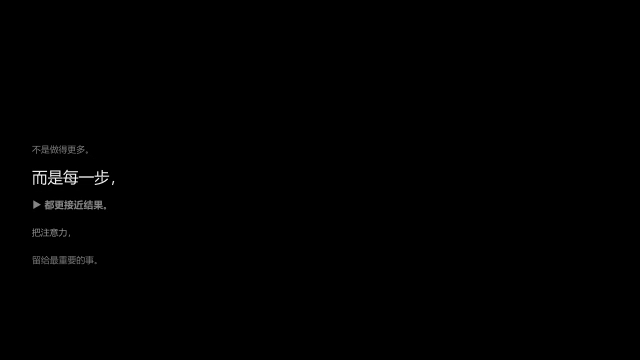
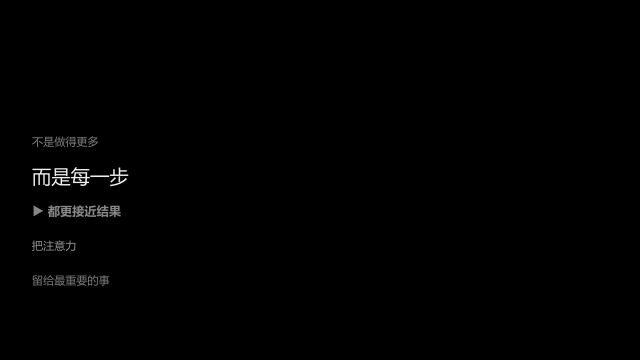
自动同步 2026/7/15 12:51:43

diff --git a/server/kinetic-text/effects.js b/server/kinetic-text/effects.js
@@ -46,7 +46,7 @@ const TEMPLATE_DEFS = [
     supportedTiming: ["sentence", "word"],
     requiresWordTiming: false,
     defaultParams: {
-      fontSize: 58,
+      fontSize: 72,
       x: 5,
       y: 50,
       maxLines: 1,

diff --git a/server/kinetic-text/kinetic-text-service.js b/server/kinetic-text/kinetic-text-service.js
@@ -670,7 +670,7 @@ function rollingFocusDisplayRows(segments = []) {
       ...segment,
       id: `${segment.id}-focus-${index + 1}`,
       sourceSegmentId: segment.id,
-      text: joinTimedWords(group, segment.text),
+      text: joinTimedWords(group, segment.text).replace(/[，。！？；：、,.!?;:]+$/u, ""),
       start: Math.max(segment.start, group[0].start),
       end: Math.min(segment.end, Math.max(group[0].start + 0.1, group[group.length - 1].end)),
       words: group,

diff --git a/subtitle-templates/rolling-focus-subtitle/defaultConfig.ts b/subtitle-templates/rolling-focus-subtitle/defaultConfig.ts
@@ -2,7 +2,7 @@ import type { SubtitleTemplateConfig } from "../types";
 
 const config: SubtitleTemplateConfig = {
   fontFamily: "Microsoft YaHei",
-  fontSize: 58,
+  fontSize: 72,
   primaryColor: "#FFFFFF",
   accentColor: "#FFFFFF",
   position: { x: 5, y: 50 },

diff --git a/ui/modules/kinetic-text.js b/ui/modules/kinetic-text.js
@@ -453,7 +453,7 @@ function rollingFocusPreviewRows(segments = []) {
       ...segment,
       id: `${segment.id}-focus-${index + 1}`,
       sourceSegmentId: segment.id,
-      text: group.map((word) => word.text).join(separator),
+      text: group.map((word) => word.text).join(separator).replace(/[，。！？；：、,.!?;:]+$/u, ""),
       start: Math.max(Number(segment.start || 0), Number(group[0].start || 0)),
       end: Math.min(Number(segment.end || 0), Number(group[group.length - 1].end || segment.end || 0)),
     }));